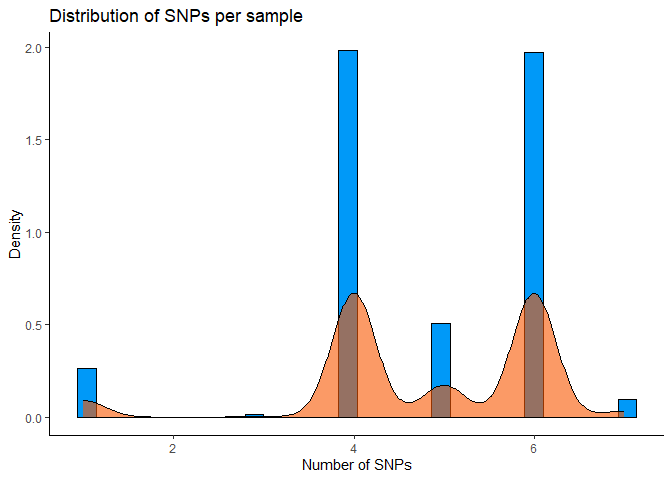
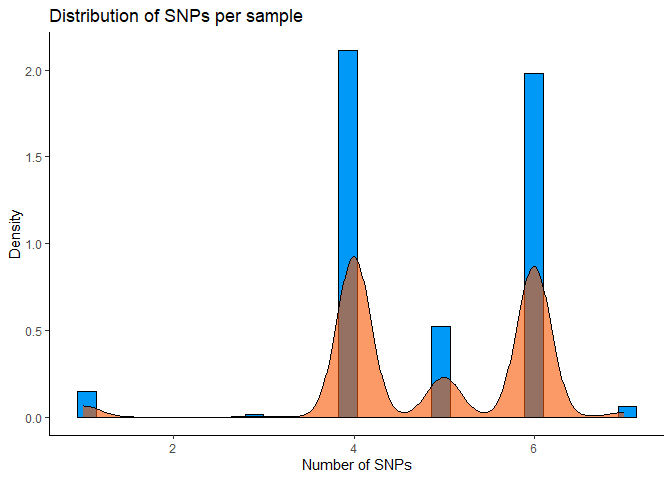
rerun analysis for SNPs data batch3

diff --git a/eda/data_cleaning.md b/eda/data_cleaning.md
@@ -1,7 +1,7 @@
 Data Cleaning
 ================
 Geovanny Risco
-May 30, 2023
+May 31, 2023
 
 - <a href="#1-import-libraries" id="toc-1-import-libraries">1 Import
   libraries</a>
@@ -111,7 +111,7 @@ args_data
 
 ``` r
 # Results from CARD database
-card_data_filepath <- paste0("data/results/card/card_results", "_batch2.5", ".tsv")
+card_data_filepath <- paste0("data/results/card/card_results", batch_number, ".tsv")
 card_data <- read_tsv(card_data_filepath, na = c("n/a"))
 ```
 
@@ -120,12 +120,12 @@ card_data <- read_tsv(card_data_filepath, na = c("n/a"))
     ##   dat <- vroom(...)
     ##   problems(dat)
 
-    ## Rows: 120203 Columns: 27
+    ## Rows: 243992 Columns: 27
     ## -- Column specification --------------------------------------------------------
     ## Delimiter: "\t"
-    ## chr (16): SAMPLE_ID, ORF_ID, Contig, Orientation, Cut_Off, Best_Hit_ARO, Mod...
-    ## dbl  (9): TAX_ID, Start, Stop, Pass_Bitscore, Best_Hit_Bitscore, Best_Identi...
-    ## lgl  (2): Other_SNPs, Nudged
+    ## chr (18): SAMPLE_ID, ORF_ID, Contig, Orientation, Cut_Off, Best_Hit_ARO, Mod...
+    ## dbl  (8): TAX_ID, Start, Stop, Pass_Bitscore, Best_Hit_Bitscore, Best_Identi...
+    ## lgl  (1): Other_SNPs
     ## 
     ## i Use `spec()` to retrieve the full column specification for this data.
     ## i Specify the column types or set `show_col_types = FALSE` to quiet this message.
@@ -137,7 +137,7 @@ card_data <- card_data %>%
 card_data
 ```
 
-    ## # A tibble: 120,203 x 27
+    ## # A tibble: 243,992 x 27
     ##    TAX_ID SAMPLE_ID  ORF_ID Contig  Start   Stop Orien~1 Cut_Off Pass_~2 Best_~3
     ##     <dbl> <chr>      <chr>  <chr>   <dbl>  <dbl> <chr>   <chr>     <dbl>   <dbl>
     ##  1    195 GCA_00528~ AACMV~ AACMV~  40782  41555 +       Perfect     500    516.
@@ -150,13 +150,13 @@ card_data
     ##  8    195 GCA_00528~ AACMR~ AACMR~   3297   5216 +       Strict      300   1304.
     ##  9    195 GCA_00528~ AACMR~ AACMR~   2577   3350 +       Perfect     500    516.
     ## 10    197 GCA_00529~ AACNR~ AACNR~  20452  21225 -       Perfect     500    516.
-    ## # ... with 120,193 more rows, 17 more variables: Best_Hit_ARO <chr>,
+    ## # ... with 243,982 more rows, 17 more variables: Best_Hit_ARO <chr>,
     ## #   Best_Identities <dbl>, ARO <dbl>, Model_type <chr>,
     ## #   SNPs_in_Best_Hit_ARO <chr>, Other_SNPs <lgl>, `Drug Class` <chr>,
     ## #   `Resistance Mechanism` <chr>, `AMR Gene Family` <chr>, Predicted_DNA <chr>,
     ## #   Predicted_Protein <chr>, CARD_Protein_Sequence <chr>,
-    ## #   `Percentage Length of Reference Sequence` <dbl>, ID <chr>, Model_ID <dbl>,
-    ## #   Nudged <lgl>, Note <chr>, and abbreviated variable names ...
+    ## #   `Percentage Length of Reference Sequence` <dbl>, ID <chr>, Model_ID <chr>,
+    ## #   Nudged <chr>, Note <chr>, and abbreviated variable names ...
 
 ``` r
 # Reference genomes (in BED format)
@@ -609,6 +609,7 @@ knitr::kable(resistant_samples_per_antibiotic)
 resistant_samples_per_antibiotic %>%
   ggplot(aes(x = antibiotic, y = `resistant samples`)) +
   geom_bar(stat = "identity") +
+  theme_classic() +
   theme(axis.text.x = element_text(angle = 90, hjust = 1)) +
   labs(x = "Antibiotic", y = "Number of resistant samples")
 ```
@@ -656,7 +657,7 @@ card_snps_data %>%
 # 6 Save data
 
 ``` r
-card_snps_data_output_path <- paste0("data/results/card/card_snps_data", "_batch2.5", "_cleaned.tsv")
+card_snps_data_output_path <- paste0("data/results/card/card_snps_data", batch_number, "_cleaned.tsv")
 card_snps_data_wide %>%
   write_tsv(card_snps_data_output_path)
 
